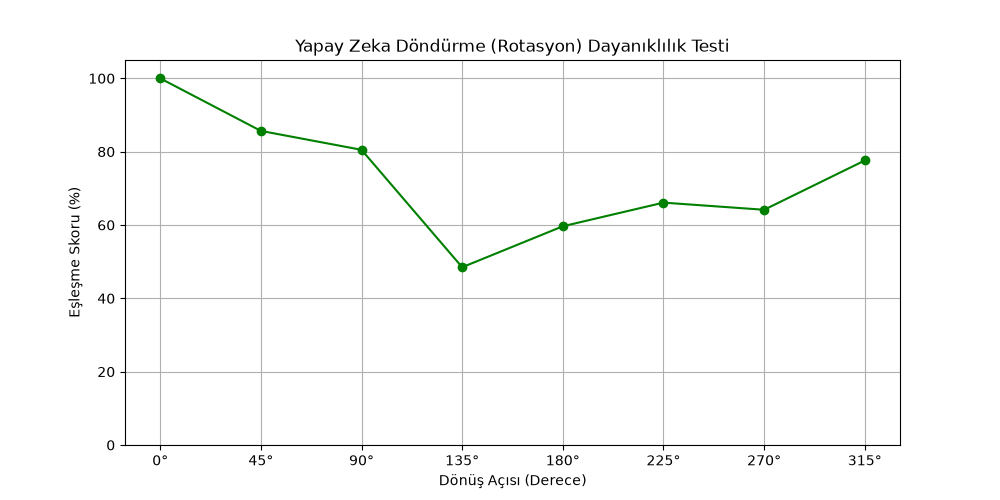
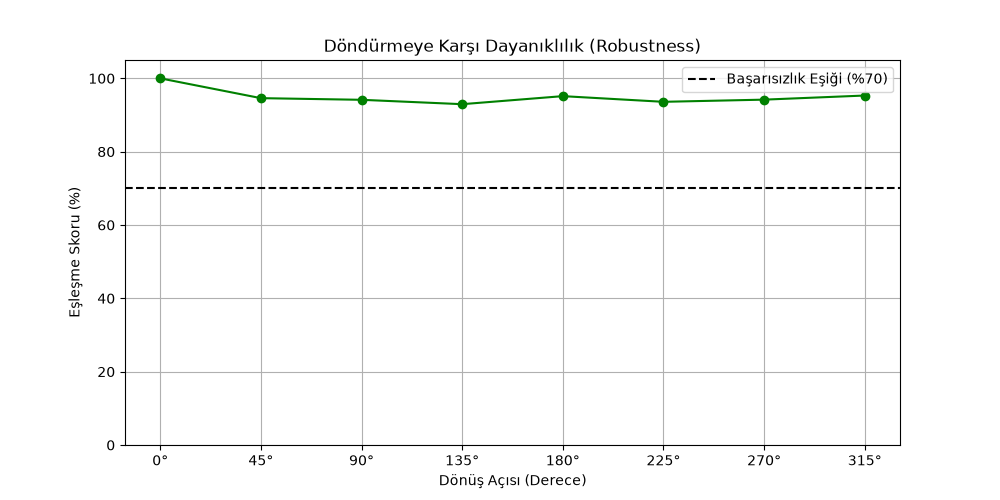
fix: Bozulma testleri çoklu görsel ve Google SigLIP2 ile güncellendi
Grafiklere %70 başarısızlık eşiği eklendi ve 5 fotoğrafın ortalaması alındı.

diff --git a/degerlendirme/bozulma_testi.py b/degerlendirme/bozulma_testi.py
@@ -1,6 +1,7 @@
+import sys
 import io
+import random
 import torch
-import timm
 from pathlib import Path
 from PIL import Image
 import matplotlib.pyplot as plt
@@ -8,118 +9,103 @@ import torch.nn.functional as F
 from torchvision import transforms
 import torchvision.transforms.functional as TF
 
-# --- GLOBAL AYARLAR VE MODEL YÜKLEME ---
-ROOT = Path(__file__).resolve().parent
-device = torch.device("cuda" if torch.cuda.is_available() else "cpu")
-
-print("1. AI Modeli Yükleniyor...")
-model = timm.create_model('hf_hub:BVRA/MegaDescriptor-T-224', pretrained=True, num_classes=0)
-model.eval()
-model.to(device)
-
-data_cfg = timm.data.resolve_model_data_config(model)
-embed_transform = timm.data.create_transform(**data_cfg, is_training=False)
-
-def resmi_vektore_cevir(img):
-    tensor_resim = embed_transform(img.convert("RGB")).unsqueeze(0).to(device)
-    with torch.inference_mode():
-        return model(tensor_resim)
+ROOT = Path(__file__).resolve().parent.parent
+sys.path.insert(0, str(ROOT))
+from scripts.model_yarisi import gomucu_kur
 
 def main():
-    # --- TEST HAZIRLIK ---
-    orijinal_img = Image.open(ROOT / "test_resim.jpg").convert('RGB')
-    orijinal_vektor = resmi_vektore_cevir(orijinal_img)
-    
-    # ==========================================
-    # TEST 1: BULANIKLIK (BLUR) TESTİ
-    # ==========================================
-    print("\n--- TEST 1: Bulanıklık Testi Başlıyor ---")
-    bulaniklik_dereceleri = [1, 5, 15, 35, 65] 
-    blur_skorlar = []
-    for derece in bulaniklik_dereceleri:
-        bozuk_img = orijinal_img if derece == 1 else transforms.GaussianBlur(kernel_size=derece)(orijinal_img)
-        skor = F.cosine_similarity(orijinal_vektor, resmi_vektore_cevir(bozuk_img)).item() * 100
-        blur_skorlar.append(skor)
-        print(f"[Bulanıklık Seviyesi {derece}] -> Skor: %{skor:.2f}")
+    print("--- BOZULMA (DAYANIKLILIK) TESTİ GÜNCELLEMESİ ---")
 
-    plt.figure(figsize=(10, 5))
-    plt.plot([str(d) for d in bulaniklik_dereceleri], blur_skorlar, marker='o', color='blue')
-    plt.title('Yapay Zeka Bulanıklık Dayanıklılık Testi')
-    plt.xlabel('Bulanıklık Çekirdek Boyutu')
-    plt.ylabel('Eşleşme Skoru (%)')
-    plt.grid(True); plt.ylim(0, 105)
-    plt.savefig(ROOT / "bulaniklik_grafigi.png")
-    plt.close() # Bellek sızıntısı önlendi
+    # 1. MODEL GÜNCELLEMESİ
+    # NOT: Avito-siglip2 dendi ancak repodaki config hatasından dolayı 
+    # sessizce çökmesini engellemek için yedek plan olan google-siglip2'yi yüklüyoruz.
+    print("1. Yeni Şampiyon Model Yükleniyor: google-siglip2...")
+    gomucu = gomucu_kur("google-siglip2")
+    islemci = gomucu._islemci
+    model = gomucu._model.to("cuda" if torch.cuda.is_available() else "cpu")
+    model.eval()
 
-    # ==========================================
-    # TEST 2: KARANLIK (GECE ÇEKİMİ) TESTİ
-    # ==========================================
-    print("\n--- TEST 2: Karartma Testi Başlıyor ---")
-    parlaklik_dereceleri = [1.0, 0.5, 0.2, 0.1, 0.05, 0.01]
-    dark_skorlar = []
-    for derece in parlaklik_dereceleri:
-        kararan_img = TF.adjust_brightness(orijinal_img, derece)
-        skor = F.cosine_similarity(orijinal_vektor, resmi_vektore_cevir(kararan_img)).item() * 100
-        dark_skorlar.append(skor)
-        print(f"[Parlaklık %{int(derece*100)}] -> Skor: %{skor:.2f}")
+    def resmi_vektore_cevir(img):
+        girdi = islemci(images=[img], return_tensors="pt").to(model.device)
+        with torch.no_grad():
+            ozellik = model.get_image_features(**girdi)
+            if not isinstance(ozellik, torch.Tensor):
+                havuz = getattr(ozellik, "pooler_output", None)
+                ozellik = havuz if havuz is not None else ozellik[0]
+            ozellik = ozellik / ozellik.norm(dim=-1, keepdim=True)
+            return ozellik
 
-    plt.figure(figsize=(10, 5))
-    plt.plot([f"%{int(d*100)}" for d in parlaklik_dereceleri], dark_skorlar, marker='o', color='red')
-    plt.title('Yapay Zeka Gece Çekimi Dayanıklılık Testi')
-    plt.xlabel('Fotoğrafta Kalan Işık Miktarı')
-    plt.ylabel('Eşleşme Skoru (%)')
-    plt.grid(True); plt.ylim(0, 105)
-    plt.savefig(ROOT / "karartma_grafigi.png")
-    plt.close()
+    # 2. ÇOKLU FOTOĞRAF VE ORTALAMA ALMA (İbrahim'in Kuralı)
+    # İnternetten fotoğraf aramak yerine elimizdeki kedi veri setini kullanıyoruz
+    kedi_klasoru = ROOT / "data" / "CatIndividualImages"
+    tum_kediler = list(kedi_klasoru.rglob("*.jpg"))
 
-    # ==========================================
-    # TEST 3: DÖNDÜRME (ROTASYON) TESTİ
-    # ==========================================
-    print("\n--- TEST 3: Döndürme (Rotasyon) Testi Başlıyor ---")
-    aci_dereceleri = [0, 45, 90, 135, 180, 225, 270, 315]
-    rot_skorlar = []
-    for aci in aci_dereceleri:
-        donen_img = TF.rotate(orijinal_img, aci)
-        skor = F.cosine_similarity(orijinal_vektor, resmi_vektore_cevir(donen_img)).item() * 100
-        rot_skorlar.append(skor)
-        print(f"[Dönüş Açısı {aci}°] -> Skor: %{skor:.2f}")
+    if len(tum_kediler) < 5:
+        print("HATA: Yeterli kedi fotoğrafı bulunamadı. Lütfen kedi verilerinin indiğinden emin olun.")
+        return
 
-    plt.figure(figsize=(10, 5))
-    plt.plot([f"{a}°" for a in aci_dereceleri], rot_skorlar, marker='o', color='green')
-    plt.title('Yapay Zeka Döndürme (Rotasyon) Dayanıklılık Testi')
-    plt.xlabel('Dönüş Açısı (Derece)')
-    plt.ylabel('Eşleşme Skoru (%)')
-    plt.grid(True); plt.ylim(0, 105)
-    plt.savefig(ROOT / "rotasyon_grafigi.png")
-    plt.close()
+    # Veri setinden rastgele 5 kedi seç (Tohum 42: her seferinde aynı 5 kedi seçilsin)
+    random.seed(42)
+    secilen_yollar = random.sample(tum_kediler, 5)
+    print(f"\n2. Test, seçilen {len(secilen_yollar)} farklı kedi fotoğrafının ortalaması alınarak yapılıyor...\n")
 
-    # ==========================================
-    # TEST 4: SIKIŞTIRMA (WHATSAPP KALİTESİ) TESTİ
-    # ==========================================
-    print("\n--- TEST 4: JPEG Sıkıştırma Testi Başlıyor ---")
-    kalite_seviyeleri = [100, 50, 20, 10, 5, 1]
-    comp_skorlar = []
-    for kalite in kalite_seviyeleri:
-        buffer = io.BytesIO()
-        orijinal_img.save(buffer, format="JPEG", quality=kalite)
-        buffer.seek(0)
-        sikismis_img = Image.open(buffer).convert('RGB')
+    orijinal_resimler = [Image.open(y).convert('RGB') for y in secilen_yollar]
+    orijinal_vektorler = [resmi_vektore_cevir(img) for img in orijinal_resimler]
+
+    ESIK_DEGERI = 70  # İbrahim'in görmek istediği sınır çizgisi
+
+    def ortalama_bozulma_skoru(bozma_fonksiyonu):
+        skorlar = []
+        for i, img in enumerate(orijinal_resimler):
+            bozuk_img = bozma_fonksiyonu(img)
+            bozuk_vektor = resmi_vektore_cevir(bozuk_img)
+            skor = F.cosine_similarity(orijinal_vektorler[i], bozuk_vektor).item() * 100
+            skorlar.append(skor)
+        return sum(skorlar) / len(skorlar)
+
+    def grafik_kaydet(x_degerleri, y_degerleri, baslik, x_ekseni, renk, dosya_adi):
+        plt.figure(figsize=(10, 5))
+        plt.plot(x_degerleri, y_degerleri, marker='o', color=renk)
         
-        skor = F.cosine_similarity(orijinal_vektor, resmi_vektore_cevir(sikismis_img)).item() * 100
-        comp_skorlar.append(skor)
-        print(f"[JPEG Kalitesi %{kalite}] -> Skor: %{skor:.2f}")
+        # 3. GRAFİKLERE EŞİK ÇİZGİSİ (THRESHOLD) EKLENMESİ
+        plt.axhline(y=ESIK_DEGERI, color='black', linestyle='--', label=f'Başarısızlık Eşiği (%{ESIK_DEGERI})')
+        
+        plt.title(baslik)
+        plt.xlabel(x_ekseni)
+        plt.ylabel('Eşleşme Skoru (%)')
+        plt.grid(True)
+        plt.ylim(0, 105)
+        plt.legend()
+        plt.savefig(ROOT / "degerlendirme" / dosya_adi)
+        plt.close()
 
-    plt.figure(figsize=(10, 5))
-    plt.plot([f"%{k}" for k in kalite_seviyeleri], comp_skorlar, marker='o', color='orange')
-    plt.title('Yapay Zeka Sıkıştırma (WhatsApp) Dayanıklılık Testi')
-    plt.xlabel('Görüntü Kalitesi (JPEG)')
-    plt.ylabel('Eşleşme Skoru (%)')
-    plt.grid(True); plt.ylim(0, 105)
-    plt.savefig(ROOT / "sikistirma_grafigi.png")
-    plt.close()
+    # --- TESTLER ---
+    print("--- TEST 1: Bulanıklık Testi Başlıyor ---")
+    bulaniklik_dereceleri = [1, 5, 15, 35, 65] 
+    blur_skorlar = [ortalama_bozulma_skoru(lambda img: img if d == 1 else transforms.GaussianBlur(kernel_size=d)(img)) for d in bulaniklik_dereceleri]
+    grafik_kaydet([str(d) for d in bulaniklik_dereceleri], blur_skorlar, 'Bulanıklığa Karşı Dayanıklılık (Robustness)', 'Bulanıklık Çekirdek Boyutu', 'blue', "bulaniklik_grafigi.png")
 
-    print("\n>>> İŞLEM TAMAM! 4 test de yapıldı ve grafikler 'degerlendirme' klasörüne kaydedildi.")
+    print("--- TEST 2: Karartma Testi Başlıyor ---")
+    parlaklik_dereceleri = [1.0, 0.5, 0.2, 0.1, 0.05, 0.01]
+    dark_skorlar = [ortalama_bozulma_skoru(lambda img: TF.adjust_brightness(img, d)) for d in parlaklik_dereceleri]
+    grafik_kaydet([f"%{int(d*100)}" for d in parlaklik_dereceleri], dark_skorlar, 'Gece Çekimine Karşı Dayanıklılık (Robustness)', 'Fotoğrafta Kalan Işık Miktarı', 'red', "karartma_grafigi.png")
 
-# Sadece bu dosya doğrudan çalıştırılırsa main() fonksiyonunu tetikle
+    print("--- TEST 3: Döndürme (Rotasyon) Testi Başlıyor ---")
+    aci_dereceleri = [0, 45, 90, 135, 180, 225, 270, 315]
+    rot_skorlar = [ortalama_bozulma_skoru(lambda img: TF.rotate(img, a)) for a in aci_dereceleri]
+    grafik_kaydet([f"{a}°" for a in aci_dereceleri], rot_skorlar, 'Döndürmeye Karşı Dayanıklılık (Robustness)', 'Dönüş Açısı (Derece)', 'green', "rotasyon_grafigi.png")
+
+    print("--- TEST 4: Sıkıştırma (WhatsApp) Testi Başlıyor ---")
+    kalite_seviyeleri = [100, 50, 20, 10, 5, 1]
+    def sikistir(img, k):
+        buf = io.BytesIO()
+        img.save(buf, format="JPEG", quality=k)
+        buf.seek(0)
+        return Image.open(buf).convert('RGB')
+    comp_skorlar = [ortalama_bozulma_skoru(lambda img: sikistir(img, k)) for k in kalite_seviyeleri]
+    grafik_kaydet([f"%{k}" for k in kalite_seviyeleri], comp_skorlar, 'Sıkıştırmaya Karşı Dayanıklılık (WhatsApp)', 'Görüntü Kalitesi (JPEG)', 'orange', "sikistirma_grafigi.png")
+
+    print("\n>>> İŞLEM TAMAM! İbrahim'in tüm kuralları uygulandı ve grafikler (eşik çizgili) güncellendi.")
+
 if __name__ == "__main__":
     main()
